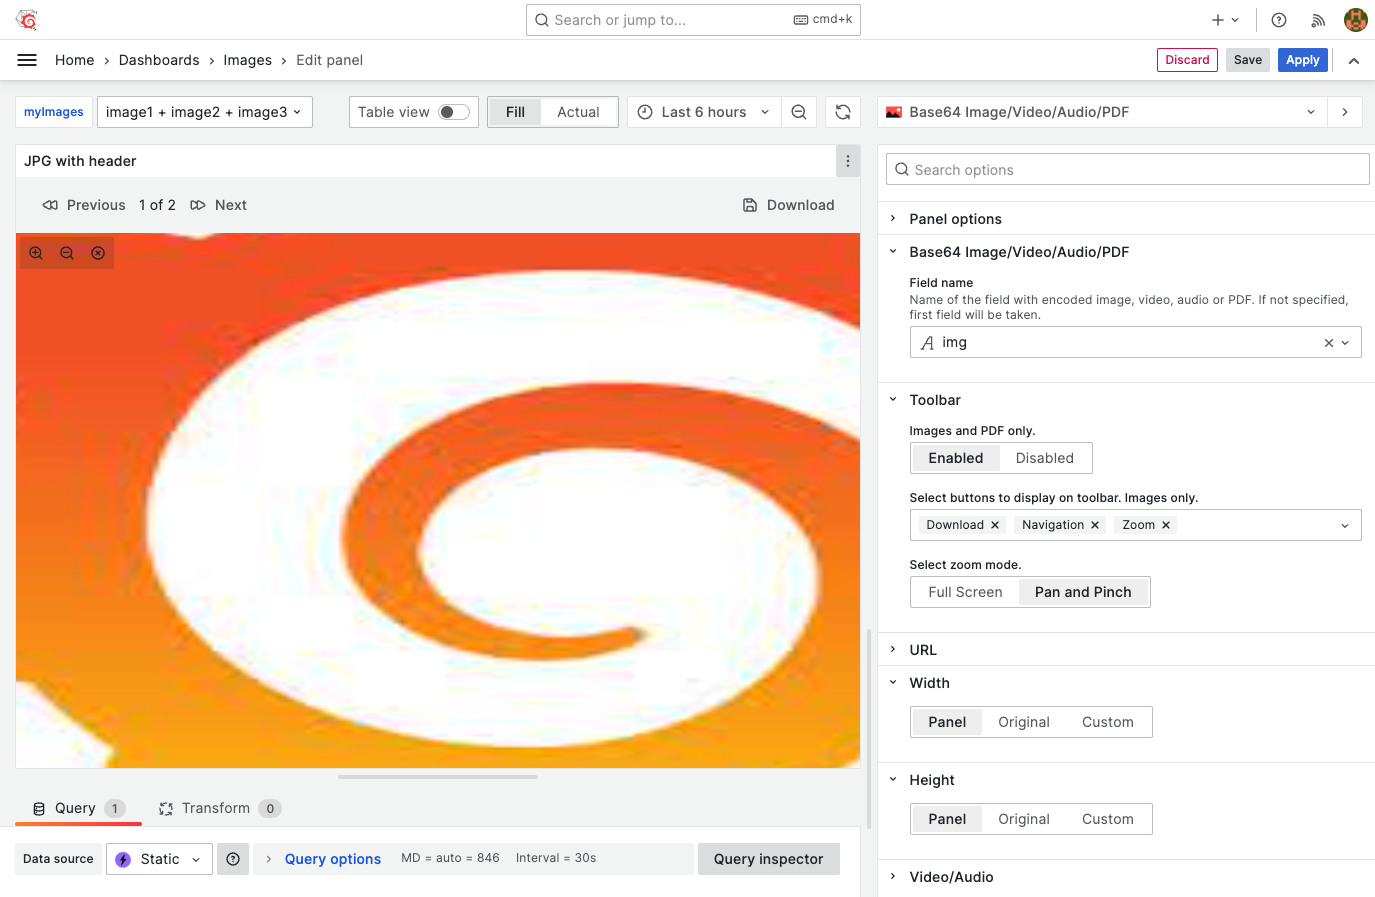
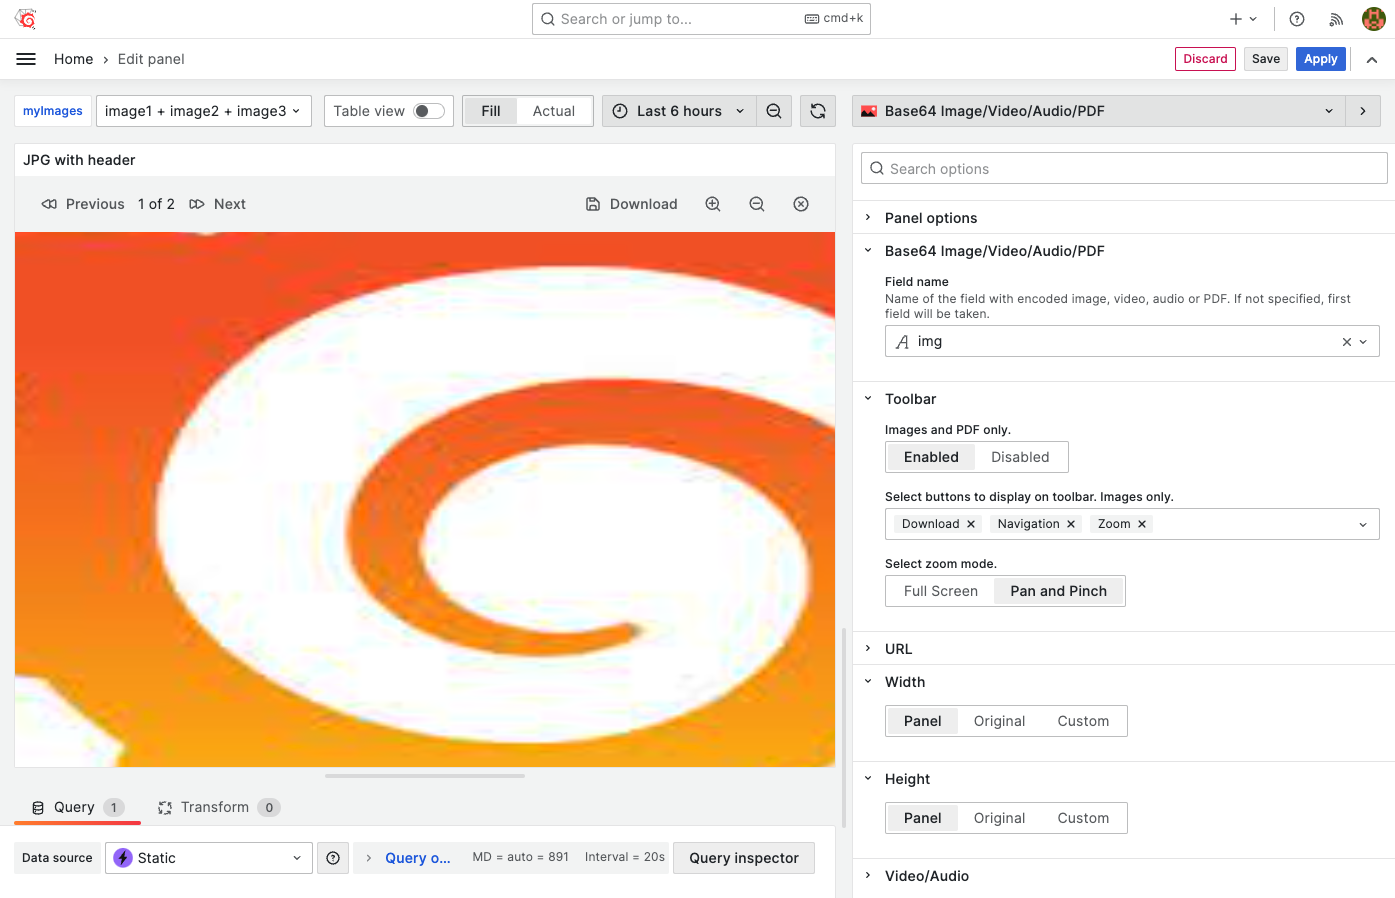
Update Image Toolbar (#422)
* Update Image Toolbar

* Add EventBus

diff --git a/config/sidebar/grafana.js b/config/sidebar/grafana.js
@@ -33,7 +33,12 @@ const mySidebar = [
     },
   },
   {
-    items: ["developer/overview", "developer/thinkbig", "developer/panel"],
+    items: [
+      "developer/overview",
+      "developer/thinkbig",
+      "developer/panel",
+      "developer/eventbus",
+    ],
     label: "Developer",
     type: "category",
     collapsible: false,
